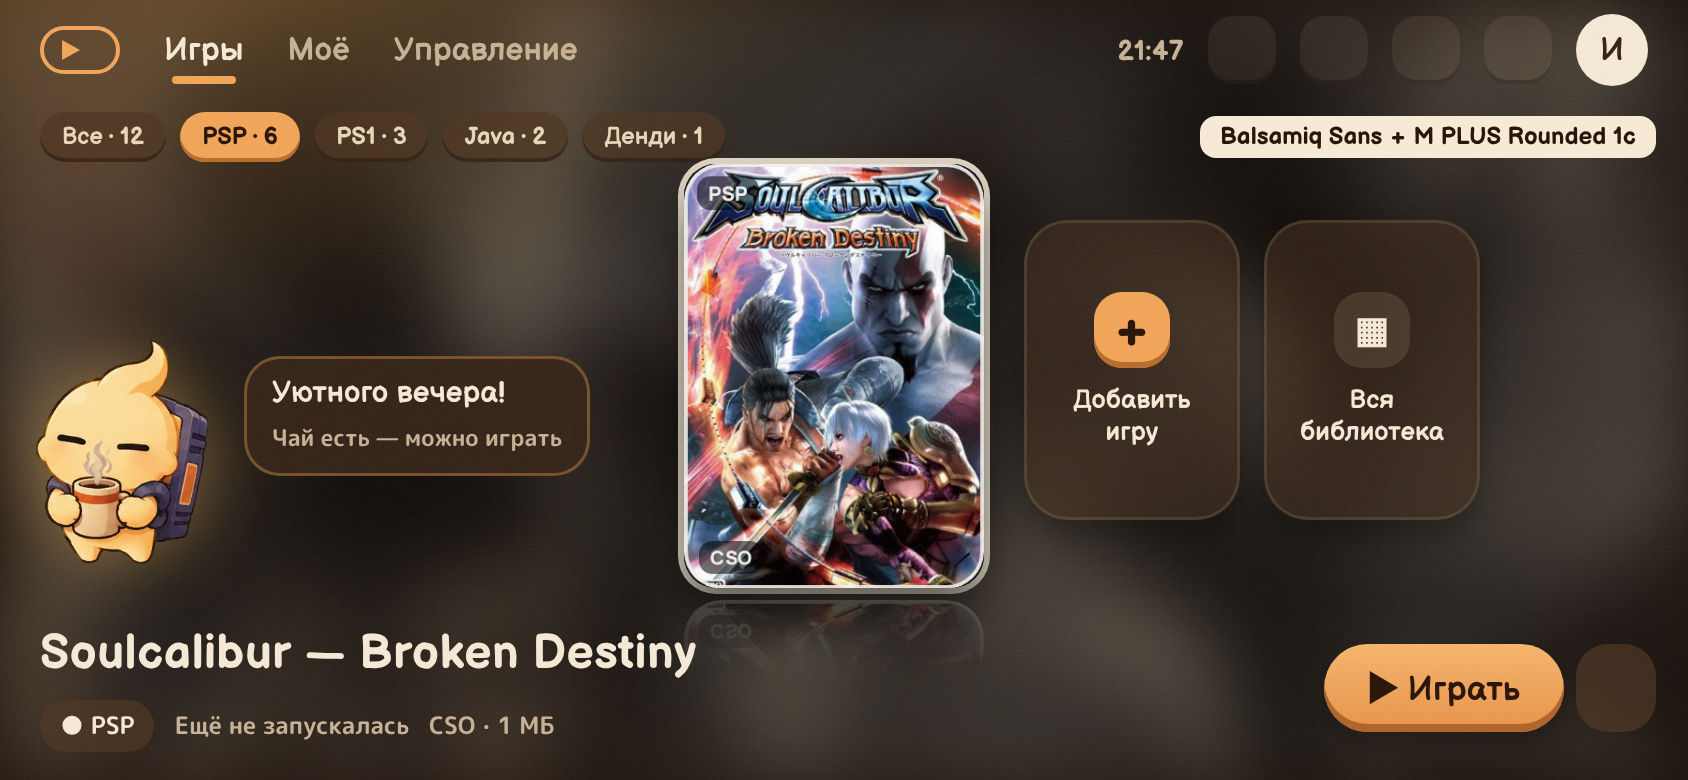
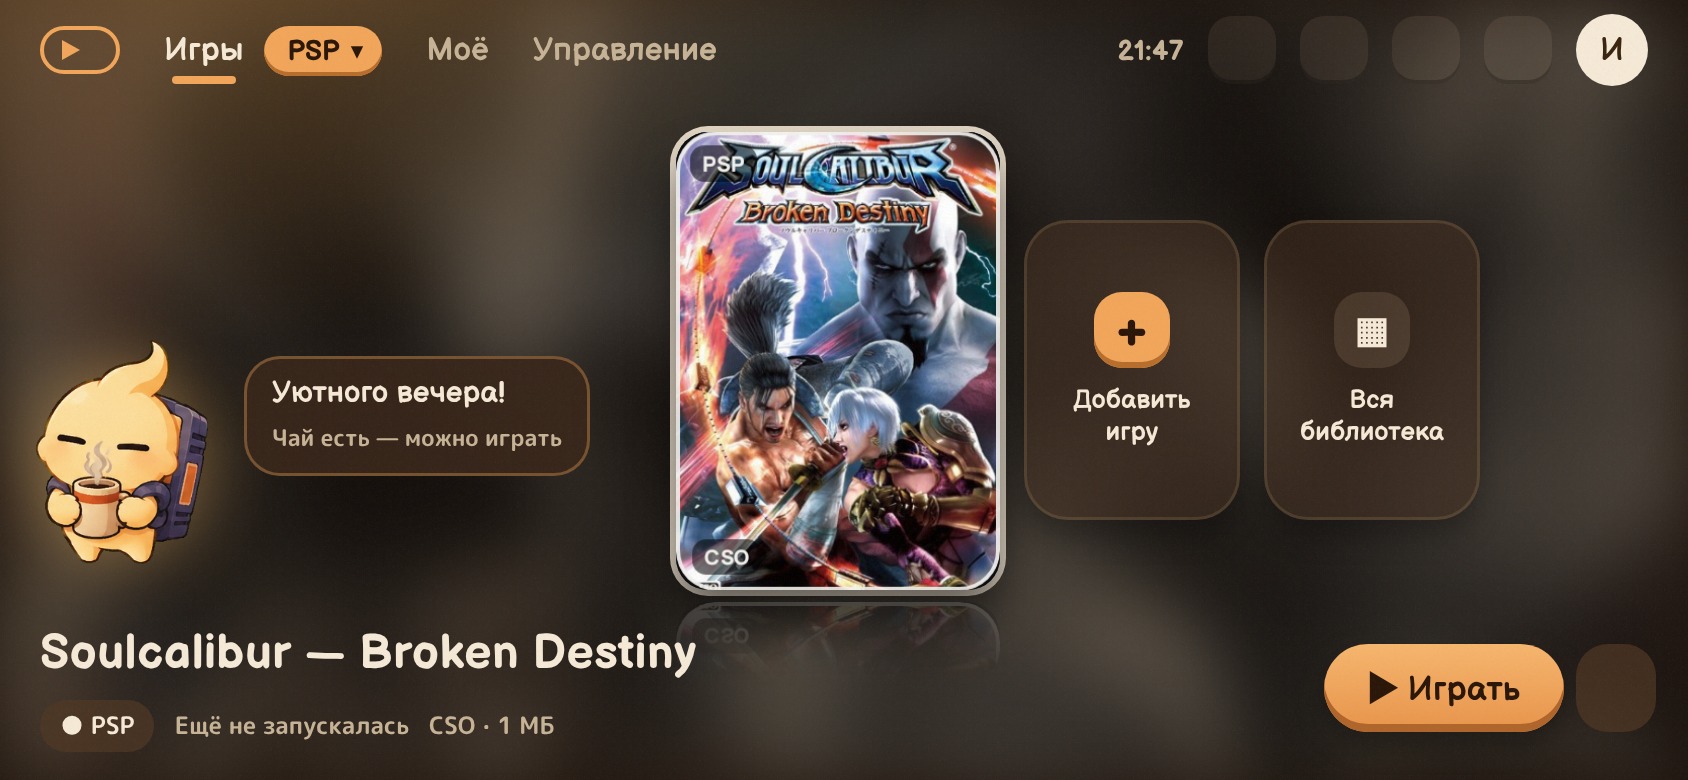
ТЗ «Вечер»: выбор консоли в шапке вместо ряда вкладок
Claude-Session: https://claude.ai/code/session_01XDKnk1QfYSzNW3QrHCK94s

Changed region(s): [[0.2773, 0.1538, 0.6161, 0.8], [0.0308, 0.0308, 0.4313, 0.2154], [0.7085, 0.1231, 0.9858, 0.2154]]

diff --git a/plans/TZ-EVENING.md b/plans/TZ-EVENING.md
@@ -9,8 +9,8 @@
 - Элементы в «Вечере»: «объёмные» кнопки (тёмная кромка снизу), карточки сильнее скруглены с тёплой обводкой, обложка в светлой рамке с тенью и отражением; карточка «Добавить игру» — янтарный «+» вместо маскота.
 - Галочка «Включать вечером сам» (19:00–7:00), по умолчанию выкл.
 
-## 2. Вкладки консолей на главном экране (во всех темах)
-`Все · PSP · PS1 · Java · …` — только консоли, где есть игры; выбранная запоминается; по умолчанию — консоль последней игры. В «Вечере» — янтарные «таблетки».
+## 2. Выбор консоли в шапке (во всех темах) — вместо ряда вкладок (ряд занимал много места)
+Рядом с «Игры» — кнопка `PSP ▾`; нажатие — список консолей с картинками приставок и числом игр (только консоли с играми + «Все игры»). Выбор запоминается; по умолчанию — консоль последней игры. При «Все» карусель идёт группами по консолям с карточкой-разделителем («PS1 · 3 игры»). Макет: `plans/evening/mockup-console-menu.png`.
 
 ## 3. Живой маскот (во всех темах), позы — `plans/mascot/poses-1.png`, `poses-2.png` (24 шт., WebP ~380 px, ~+1 МБ)
 - Движение: дыхание, моргание, взгляды по сторонам, плавная смена поз (подскок + растяжка + переход), свечение и искорки; касание — смех и подскок.
